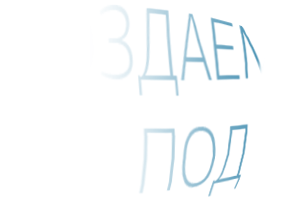
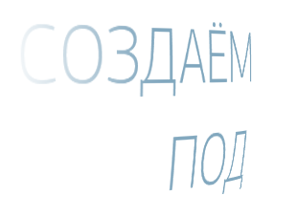
Welcome container ru en

diff --git a/frontend/web/style/css/m_welcome-container.css b/frontend/web/style/css/m_welcome-container.css
@@ -26,11 +26,14 @@
 .welcome-container .wc-title-block .wct-title { display: block; width: 100%; font-family: 'PFAgoraSansPro-Thin', 'calibri light'; color: #ffffff; text-transform: uppercase; }
 .welcome-container .wc-title-block .wct-title h1 { margin: 0; padding: 0; font-size: 68px; }
 
-.welcome-container .wc-title-block .wct-title .wctt-1 { position: relative; left: -312px; top: 12px; }
+.welcome-container .wc-title-block .wct-title .wctt-1 { position: relative; left: -276px; top: 12px; }
 .welcome-container .wc-title-block .wct-title .wctt-2 { position: relative; left: -200px; }
 .welcome-container .wc-title-block .wct-title .wctt-3 { display: inline-block;  position: relative; left: -184px; top: 30px; }
 .welcome-container .wc-title-block .wct-title .wctt-3 a { display: block; color: #d72626; border-bottom: 2px dotted #d72626; line-height: 56px; text-decoration: none; }
 .welcome-container .wc-title-block .wct-title .wctt-3 a:hover { border-bottom: 0; }
+
+.lng-page-ru-RU .welcome-container .wc-title-block .wct-title .wctt-1 { left: -340px; }
+.lng-page-en-US .welcome-container .wc-title-block .wct-title .wctt-3 { left: -165px; }
 
 .welcome-container .wc-title-block .wct-download-block { display: block; width: 314px; margin-top: 24px; text-align: left; }
 

diff --git a/frontend/web/style/css/media/m_media-screen.css b/frontend/web/style/css/media/m_media-screen.css
@@ -17,7 +17,10 @@
     .welcome-container .wc-title-block .wct-title .wctt-3 { left: auto; right: -104px; top: 20px; }
     .welcome-container .wc-title-block .wct-title .wctt-3 a { line-height: 44px; }
 
-    .welcome-container .wc-title-block .wct-title .wctt-1 { left: 0; top: 8px; }
+    .welcome-container .wc-title-block .wct-title .wctt-1 { left: 22px; top: 8px; }
+
+    .lng-page-ru-RU .welcome-container .wc-title-block .wct-title .wctt-1 { left: -18px; }
+    .lng-page-en-US .welcome-container .wc-title-block .wct-title .wctt-3 { left: 106px; }
 
 
     /**/
@@ -99,6 +102,8 @@
     .welcome-container .wc-title-block .wct-title .wctt-3 { right: -80px; top: 18px; }
     .welcome-container .wc-title-block .wct-title .wctt-3 a { line-height: 34px; }
     .welcome-container .wc-title-block .wct-title .wctt-1 { top: 6px; }
+
+    .lng-page-en-US .welcome-container .wc-title-block .wct-title .wctt-3 { left: 85px; }
 
     .wc-button { width: 314px; margin-top: 42px; left: 172px; }
     .wc-button .wcb-demand { font-size: 18px; }

diff --git a/frontend/views/layouts/main.php b/frontend/views/layouts/main.php
@@ -51,7 +51,7 @@ AppAsset::register($this);
     <script src="<?=Yii::getAlias('@web') . '/scripts/google_analitics.js'; ?>"></script>
     <?php $this->head() ?>
 </head>
-<body>
+<body class="lng-page-<?= Yii::$app->language ?>">
 <?php $this->beginBody() ?>
 
 <div class="loader-img">
